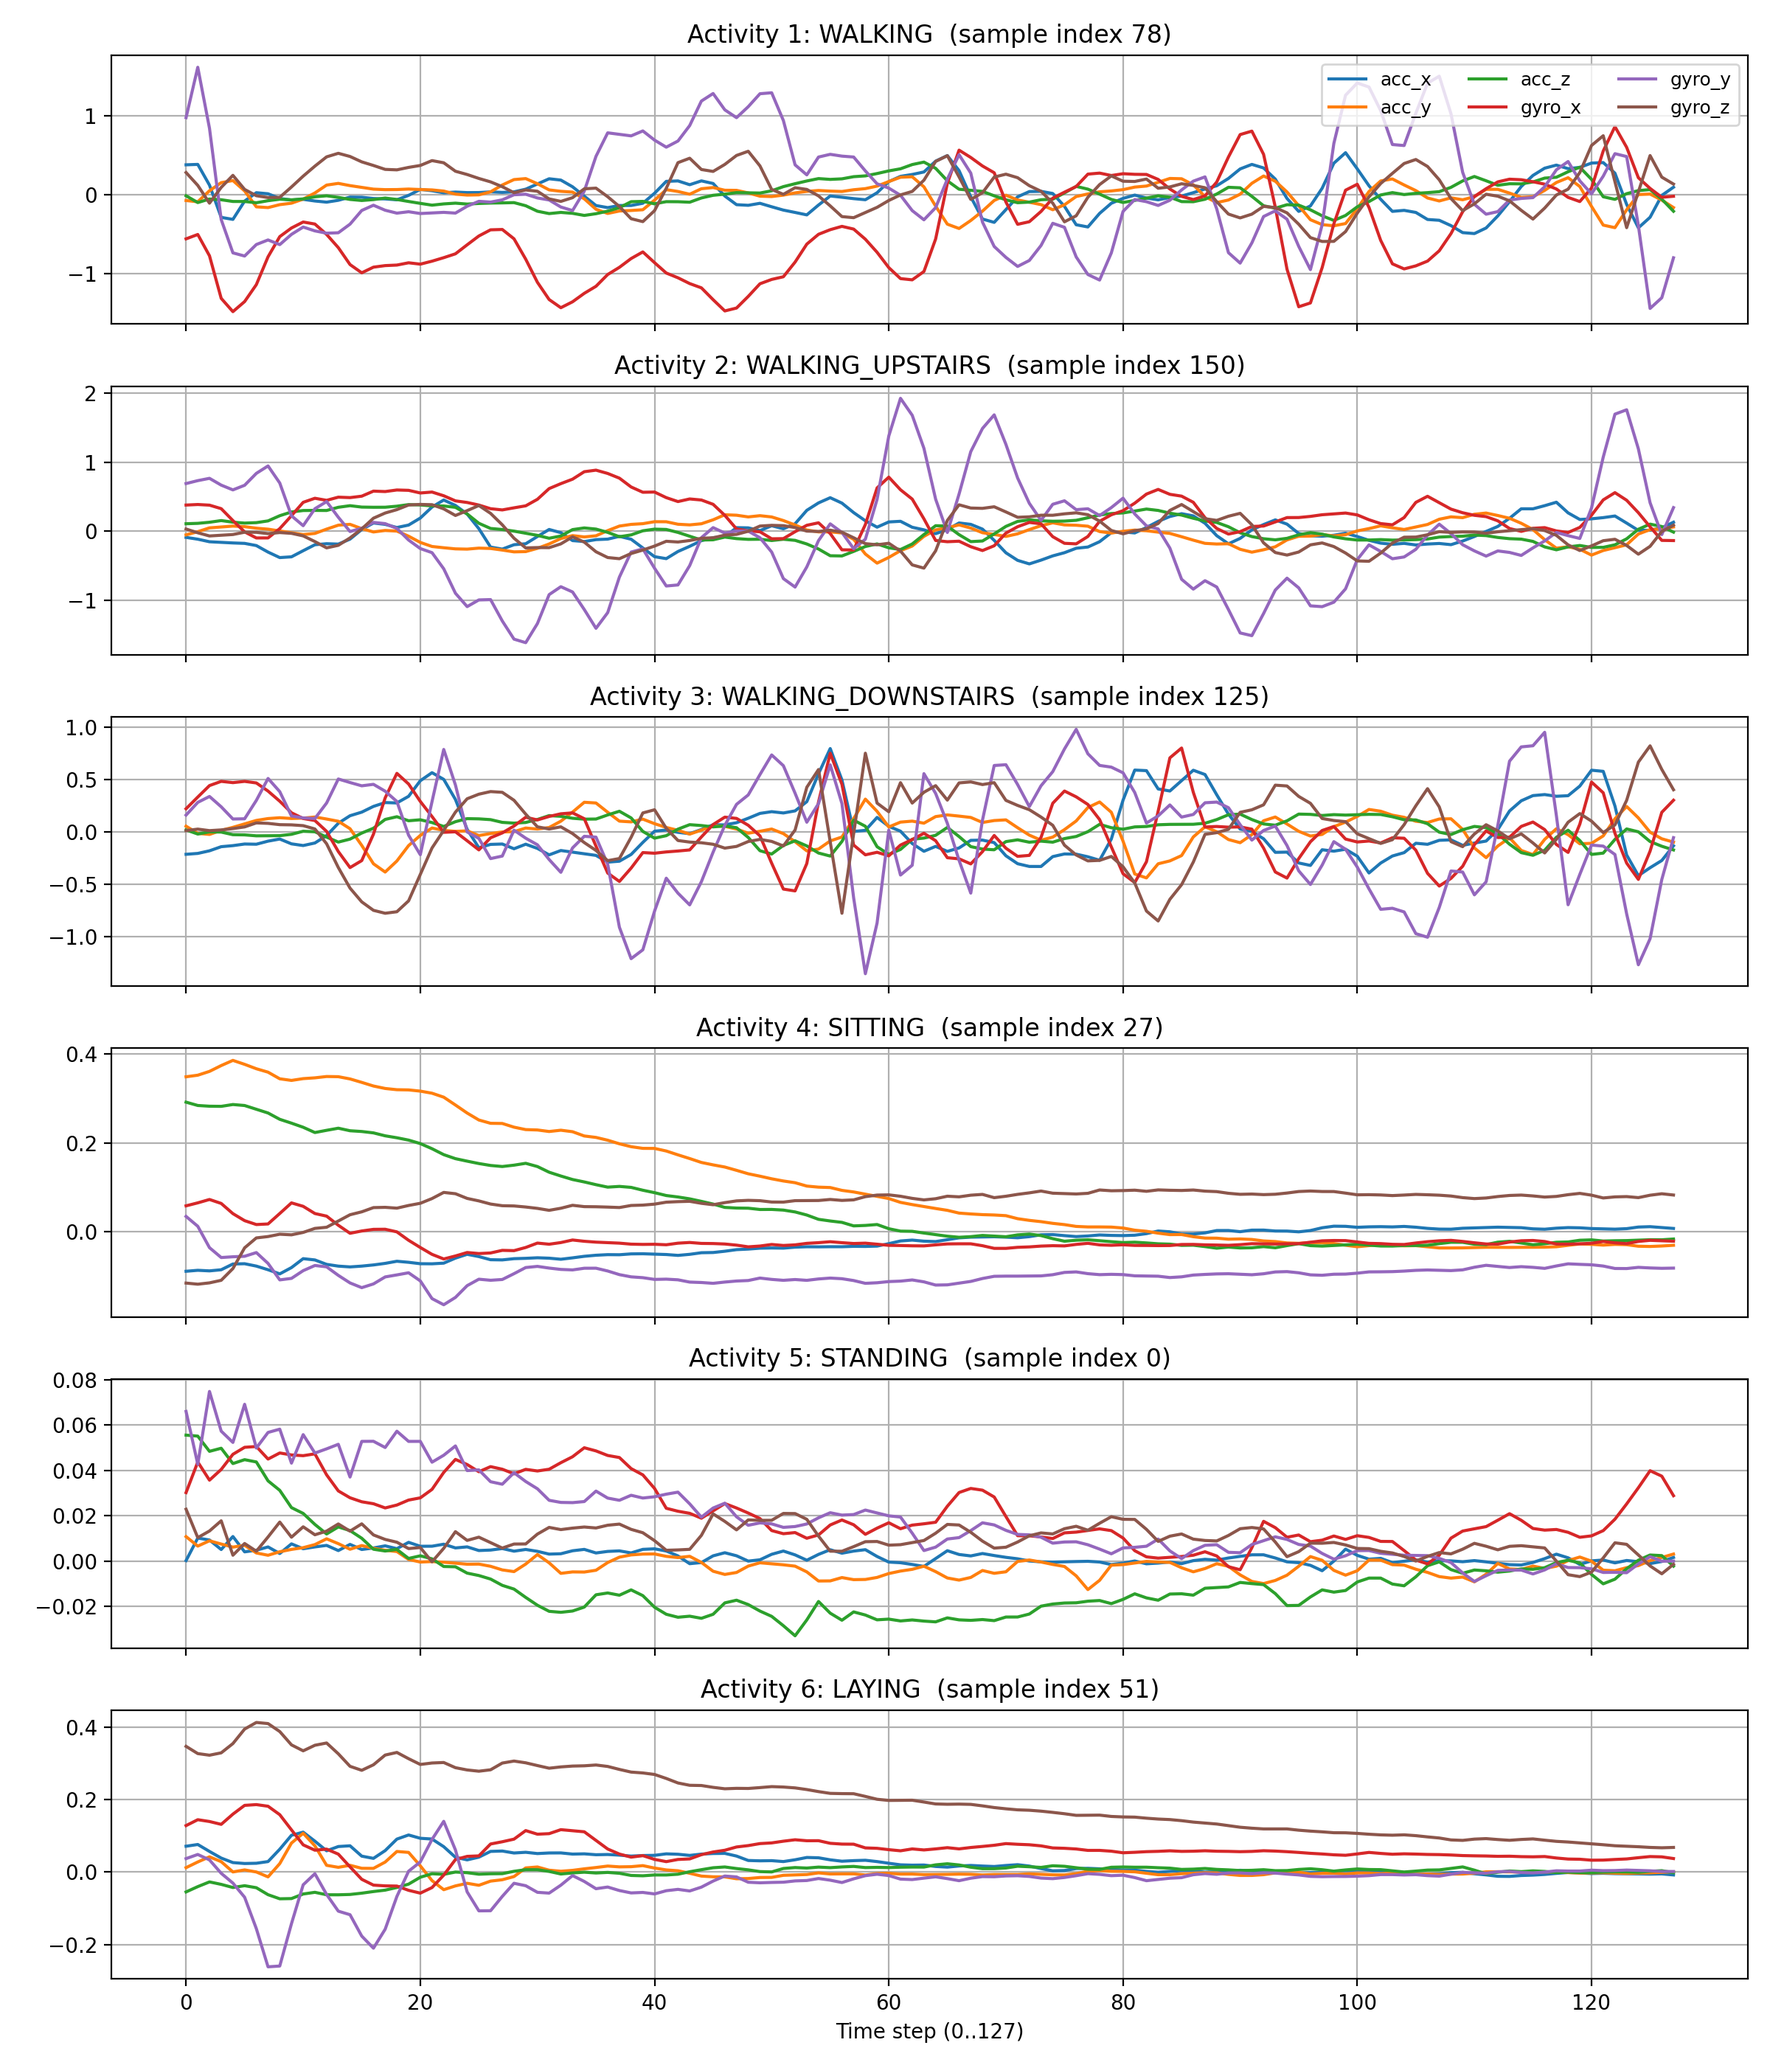
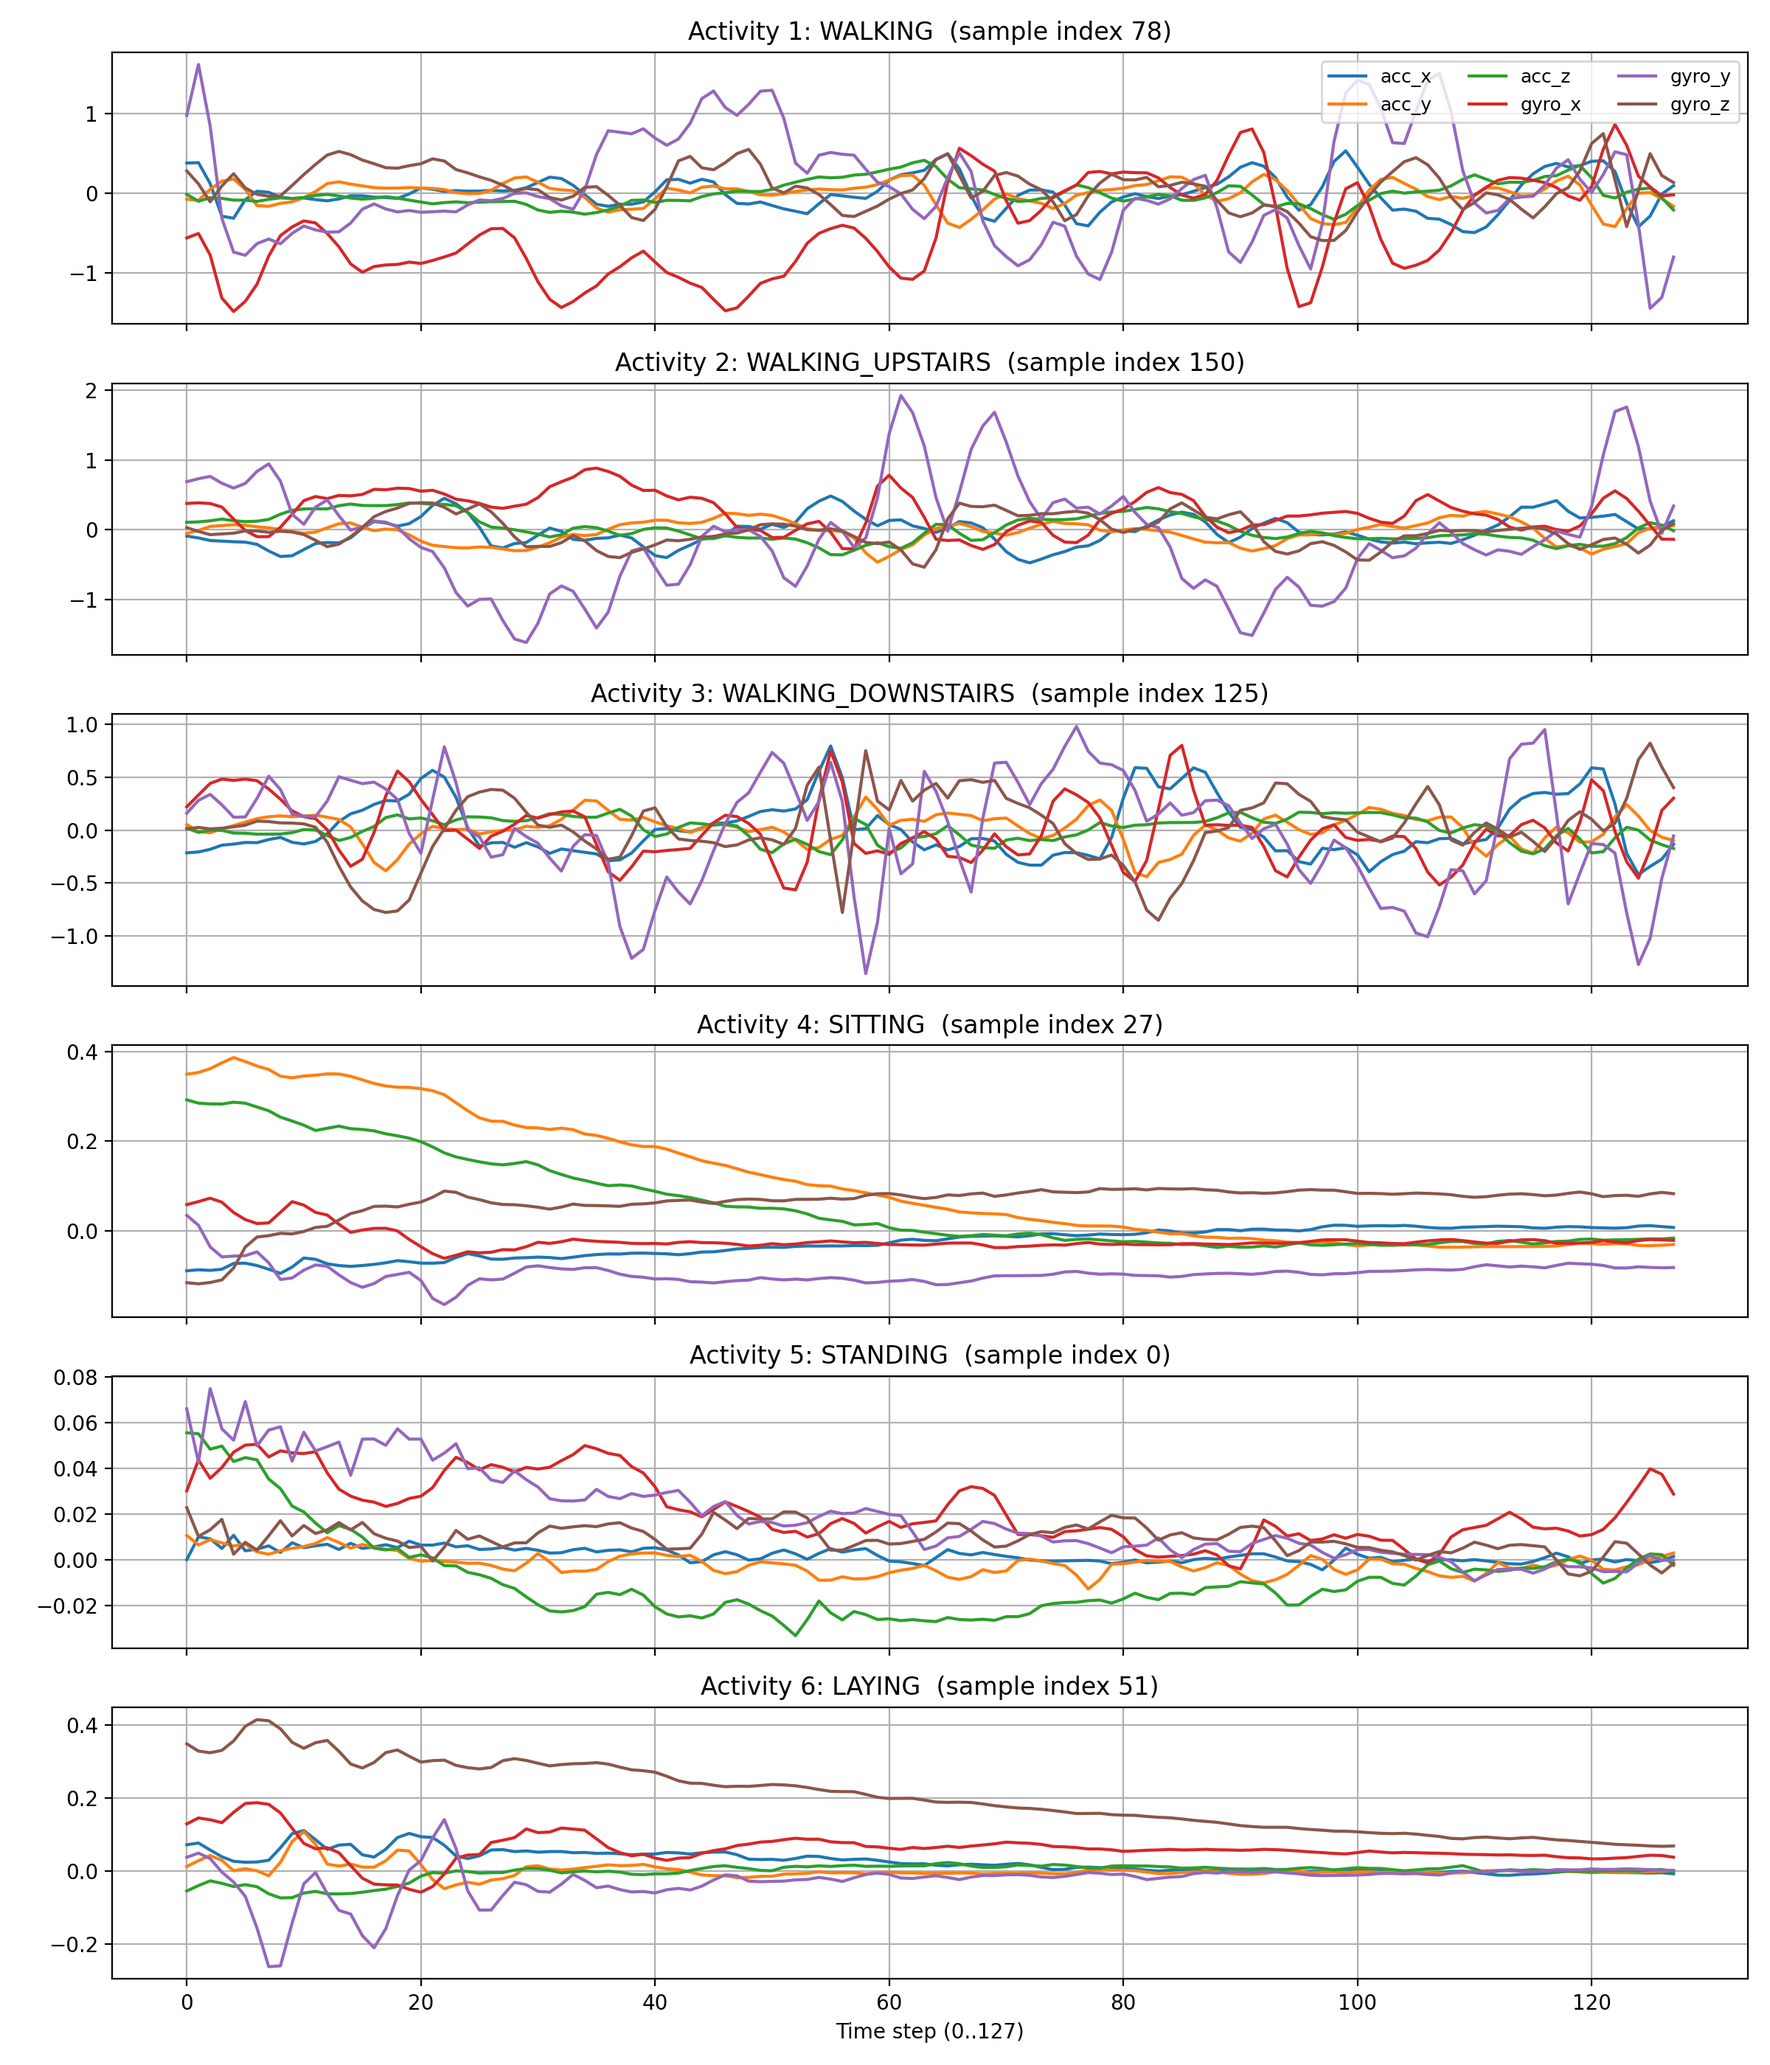
cleaner code for dataloader by using config.yaml

diff --git a/src/dataloader/quickcheck.py b/src/dataloader/quickcheck.py
@@ -6,6 +6,7 @@ from typing import Dict, List, Tuple
 
 import numpy as np
 import matplotlib.pyplot as plt
+import yaml
 
 from dataset import UCIHARDatasetLoader
 
@@ -25,20 +26,33 @@ class QuickChecker:
       - saves to results/plots/sample_signals.png
     """
 
-    def __init__(self, output_dir: str = os.path.join("results", "plots")) -> None:
-        self._output_dir = output_dir
+    def __init__(self, config_path: str = "configs/config.yaml") -> None:
+        self._cfg = self._load_config(config_path)
+        
+        # Load paths and visualization settings from config
+        paths = self._cfg.get("paths", {})
+        self._output_dir = paths.get("plot_output_dir", os.path.join("results", "plots"))
         os.makedirs(self._output_dir, exist_ok=True)
 
-        self._activity_names = {
-            1: "WALKING",
-            2: "WALKING_UPSTAIRS",
-            3: "WALKING_DOWNSTAIRS",
-            4: "SITTING",
-            5: "STANDING",
-            6: "LAYING",
-        }
+        # Load activity names and channel names from config
+        quickcheck_cfg = self._cfg.get("quickcheck", {})
+        self._activity_names = quickcheck_cfg.get("activities", {})
+        
+        # Channel names derived from dataset config
+        dataset_cfg = self._cfg.get("dataset", {})
+        channels = dataset_cfg.get("channels", [])
+        self._channel_names = [ch[1] for ch in channels]  # Use aliases
+        
+        # Plot configuration
+        self._plot_cfg = quickcheck_cfg.get("plot", {})
 
-        self._channel_names = ["acc_x", "acc_y", "acc_z", "gyro_x", "gyro_y", "gyro_z"]
+    @staticmethod
+    def _load_config(config_path: str) -> Dict:
+        """Load YAML configuration file."""
+        if not os.path.exists(config_path):
+            raise FileNotFoundError(f"Config not found: {config_path}")
+        with open(config_path, "r") as f:
+            return yaml.safe_load(f)
 
     def run(self) -> QuickcheckResult:
         loader = UCIHARDatasetLoader()
@@ -86,7 +100,11 @@ class QuickChecker:
         """
         t = np.arange(X.shape[1])  # 0..127
 
-        fig, axes = plt.subplots(nrows=6, ncols=1, figsize=(12, 14), sharex=True)
+        # Get plot configuration
+        figsize = self._plot_cfg.get("figsize", [12, 14])
+        dpi = self._plot_cfg.get("dpi", 200)
+
+        fig, axes = plt.subplots(nrows=6, ncols=1, figsize=tuple(figsize), sharex=True)
 
         for row_idx, class_id in enumerate(sorted(indices.keys())):
             ax = axes[row_idx]
@@ -105,7 +123,7 @@ class QuickChecker:
 
         axes[-1].set_xlabel("Time step (0..127)")
         fig.tight_layout()
-        fig.savefig(out_path, dpi=200)
+        fig.savefig(out_path, dpi=dpi)
         plt.close(fig)
 
 

diff --git a/src/dataloader/dataset.py b/src/dataloader/dataset.py
@@ -33,16 +33,7 @@ class UCIHARDatasetLoader:
         self._config_path = config_path
         self._cfg = self._load_config(config_path)
         self._dataset_root = self._resolve_dataset_root()
-
-        # Fixed channel ordering for consistent modeling
-        self._channels = [
-            ("body_acc_x", "acc_x"),
-            ("body_acc_y", "acc_y"),
-            ("body_acc_z", "acc_z"),
-            ("body_gyro_x", "gyro_x"),
-            ("body_gyro_y", "gyro_y"),
-            ("body_gyro_z", "gyro_z"),
-        ]
+        self._channels = self._load_channels()
 
     @staticmethod
     def _load_config(config_path: str) -> Dict:
@@ -53,17 +44,15 @@ class UCIHARDatasetLoader:
 
     def _resolve_dataset_root(self) -> str:
         """
-        Prefer config paths if present. Fall back to the default expected path.
+        Load dataset root path from config.
         """
-        # If you store these in config, this will pick them up.
-        # Otherwise it falls back to standard location.
-        root = None
-        if isinstance(self._cfg, dict):
-            paths = self._cfg.get("paths", {})
-            root = paths.get("dataset_dir", None)
-
-        if root is None:
-            root = os.path.join("data", "raw", "UCI_HAR_Dataset")
+        root = self._cfg.get("paths", {}).get("dataset_dir")
+        
+        if not root:
+            raise ValueError(
+                "dataset_dir not found in config. "
+                "Please check configs/config.yaml"
+            )
 
         if not os.path.isdir(root):
             raise FileNotFoundError(
@@ -72,6 +61,14 @@ class UCIHARDatasetLoader:
             )
 
         return root
+
+    def _load_channels(self) -> List[Tuple[str, str]]:
+        """
+        Load channel definitions from config.
+        Returns list of tuples [(base_name, alias), ...].
+        """
+        channels = self._cfg.get("dataset", {}).get("channels", [])
+        return [(ch[0], ch[1]) for ch in channels]
 
     def get_dataset_root(self) -> str:
         return self._dataset_root
@@ -157,7 +154,8 @@ class UCIHARDatasetLoader:
         """
         Returns a short description string that can be printed in scripts.
         """
+        channel_str = ", ".join([alias for _, alias in self._channels])
         return (
             f"UCIHARDatasetLoader(dataset_root='{self._dataset_root}', "
-            f"channels=[acc_x, acc_y, acc_z, gyro_x, gyro_y, gyro_z])"
+            f"channels=[{channel_str}])"
         )
